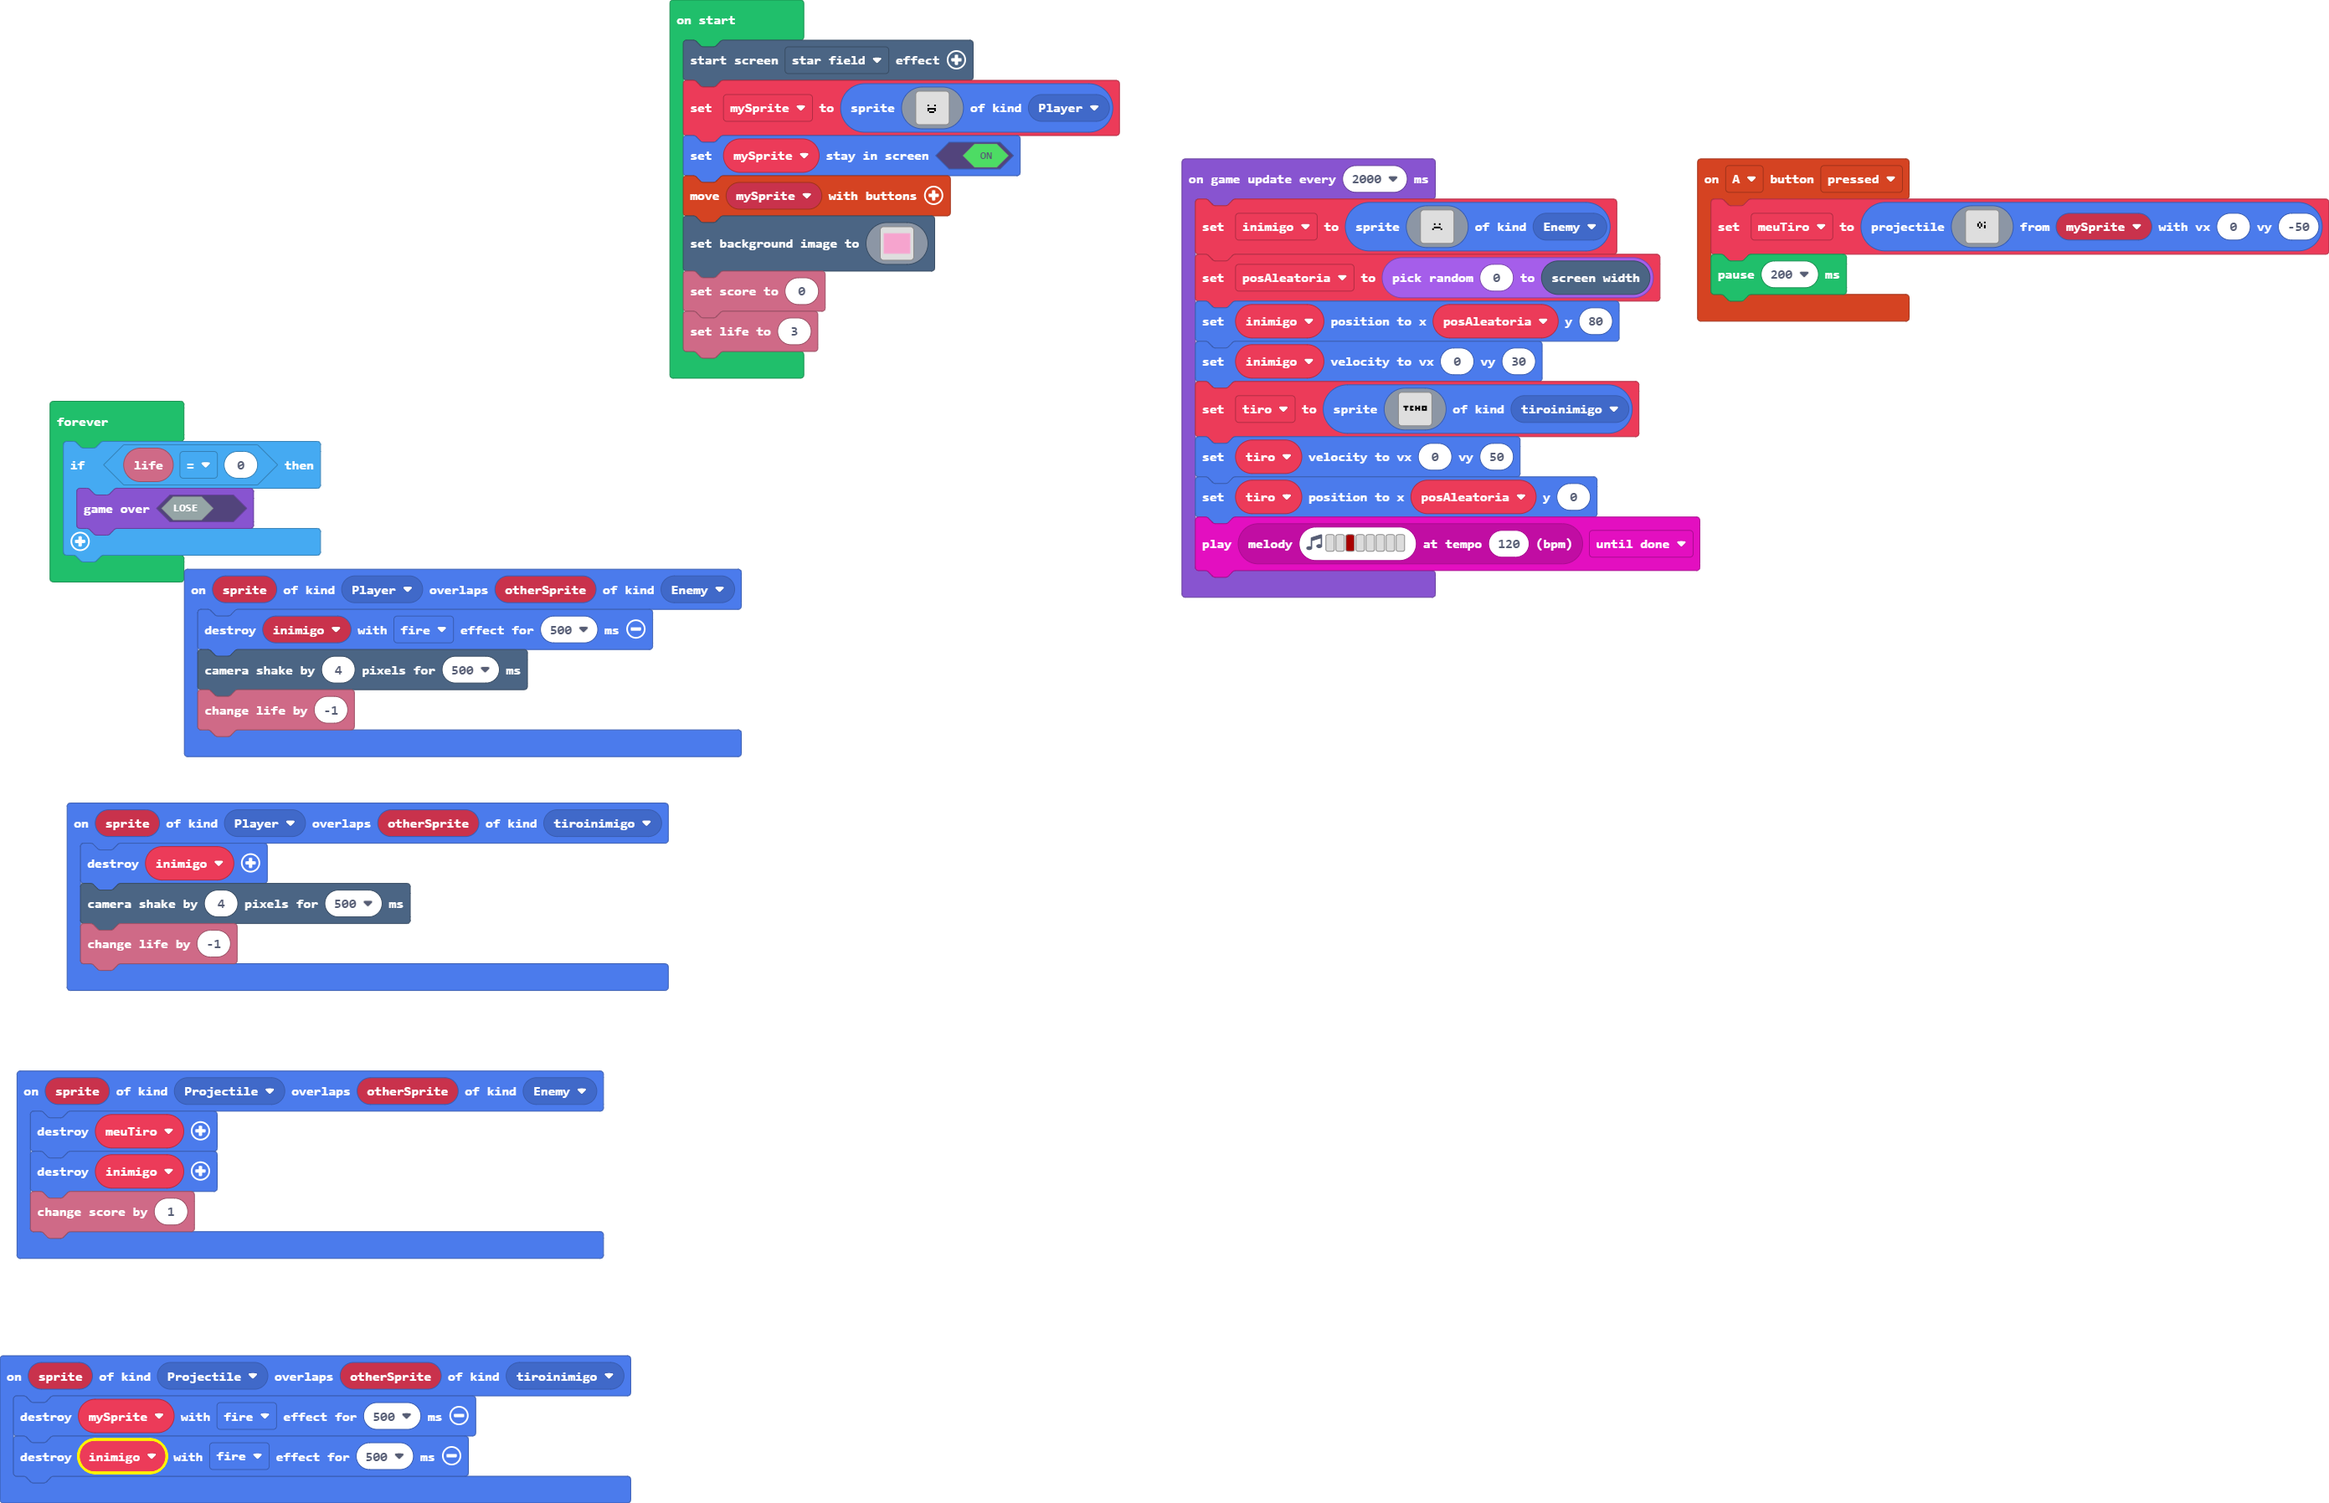
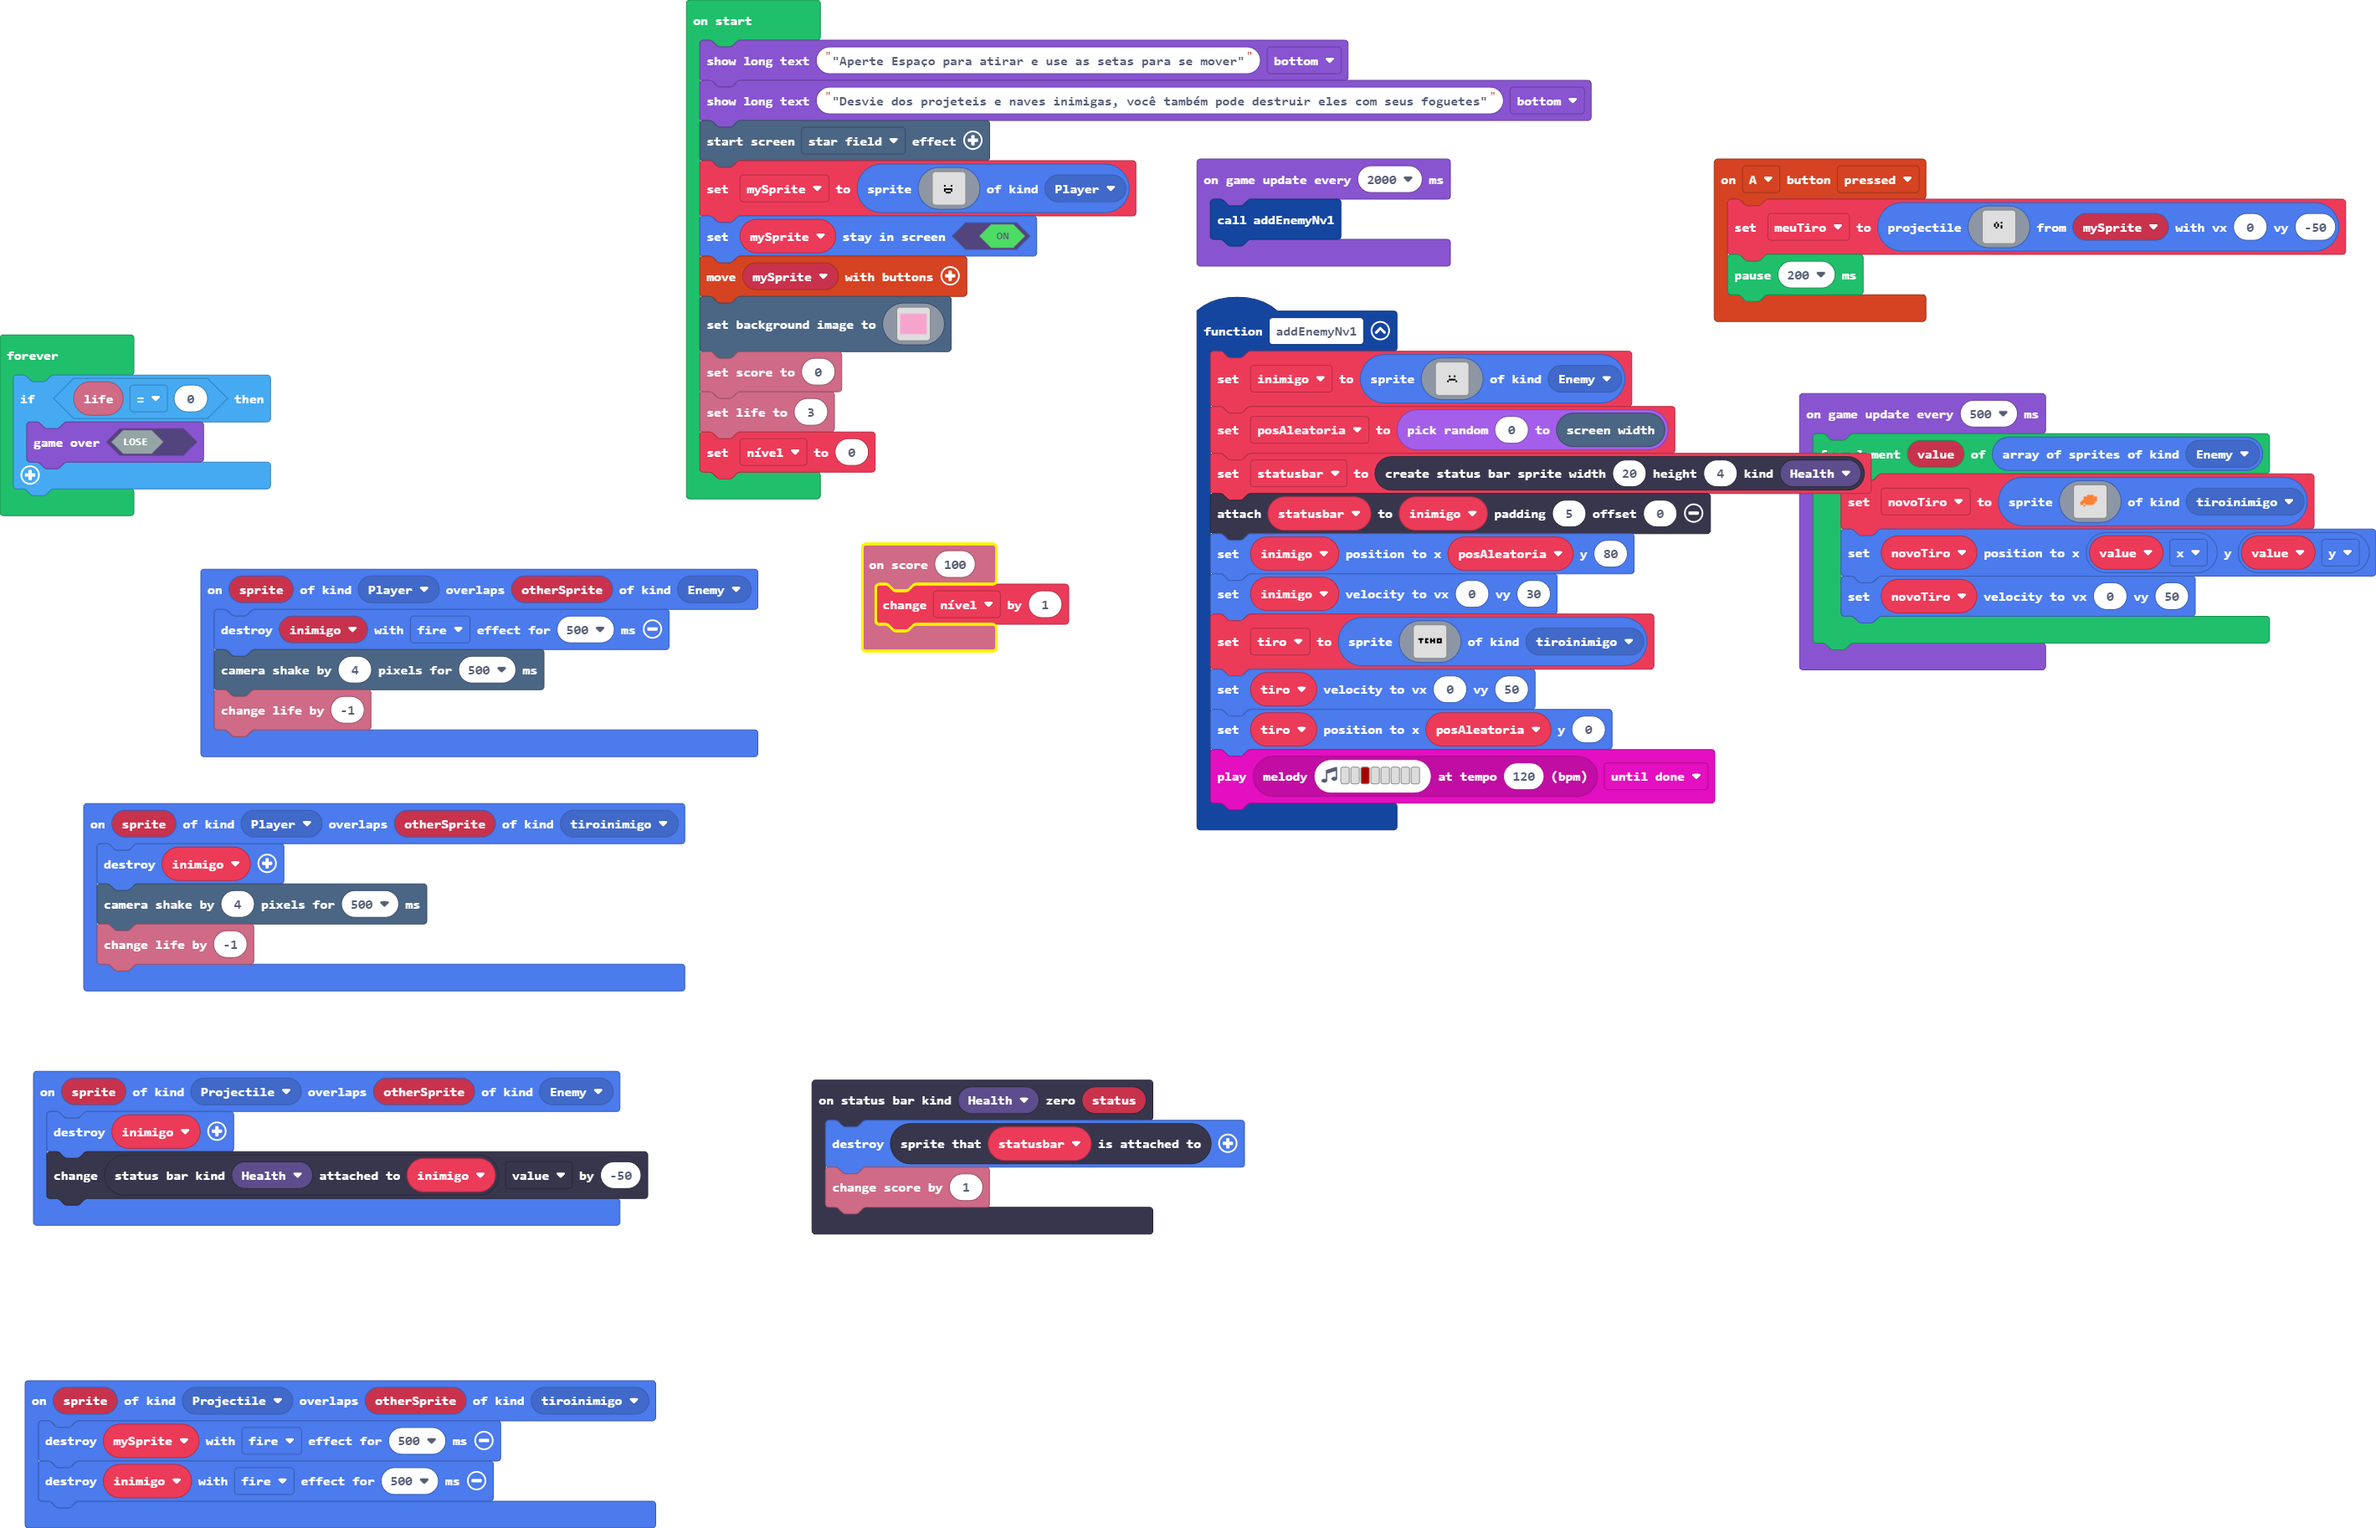
Mudanças +++

diff --git a/main.ts b/main.ts
@@ -22,6 +22,59 @@ controller.A.onEvent(ControllerButtonEvent.Pressed, function () {
         `, mySprite, 0, -50)
     pause(200)
 })
+function addEnemyNv1 () {
+    inimigo = sprites.create(img`
+        . . . . . . . . . . . . . . . . 
+        . . . . . . . . . . . . . . . . 
+        . . . . . . . . . . . . . . . . 
+        . . . . . . . . . . . . . . . . 
+        . . . . . . . . . . . . . . . . 
+        . . . . . . . . . . . . . . . . 
+        . . . . . . f . . f . . . . . . 
+        . . . . . . . . . . . . . . . . 
+        . . . . . . f f f f . . . . . . 
+        . . . . . f . . . . f . . . . . 
+        . . . . . . . . . . . . . . . . 
+        . . . . . . . . . . . . . . . . 
+        . . . . . . . . . . . . . . . . 
+        . . . . . . . . . . . . . . . . 
+        . . . . . . . . . . . . . . . . 
+        . . . . . . . . . . . . . . . . 
+        `, SpriteKind.Enemy)
+    posAleatoria = randint(0, scene.screenWidth())
+    statusbar = statusbars.create(20, 4, StatusBarKind.Health)
+    statusbar.attachToSprite(inimigo, 5, 0)
+    inimigo.setPosition(posAleatoria, 80)
+    inimigo.setVelocity(0, 30)
+    tiro = sprites.create(img`
+        . . . . . . . . . . . . . . . . 
+        . . . . . . . . . . . . . . . . 
+        . . . . . . . . . . . . . . . . 
+        . . . . . . . . . . . . . . . . 
+        . . . . . . . . . . . . . . . . 
+        . . . . . . . . . . . . . . . . 
+        . f f f . f f . f . f . f f f . 
+        . . f . . f . . f f f . f . f . 
+        . . f . . f f . f . f . f f f . 
+        . . . . . . . . . . . . . . . . 
+        . . . . . . . . . . . . . . . . 
+        . . . . . . . . . . . . . . . . 
+        . . . . . . . . . . . . . . . . 
+        . . . . . . . . . . . . . . . . 
+        . . . . . . . . . . . . . . . . 
+        . . . . . . . . . . . . . . . . 
+        `, SpriteKind.tiroinimigo)
+    tiro.setVelocity(0, 50)
+    tiro.setPosition(posAleatoria, 0)
+    music.play(music.stringPlayable("- - C5 - - - - - ", 120), music.PlaybackMode.UntilDone)
+}
+info.onScore(100, function () {
+    nível += 1
+})
+statusbars.onZero(StatusBarKind.Health, function (status) {
+    sprites.destroy(statusbar.spriteAttachedTo())
+    info.changeScoreBy(1)
+})
 sprites.onOverlap(SpriteKind.Projectile, SpriteKind.tiroinimigo, function (sprite, otherSprite) {
     sprites.destroy(mySprite, effects.fire, 500)
     sprites.destroy(inimigo, effects.fire, 500)
@@ -32,20 +85,23 @@ sprites.onOverlap(SpriteKind.Player, SpriteKind.tiroinimigo, function (sprite, o
     info.changeLifeBy(-1)
 })
 sprites.onOverlap(SpriteKind.Projectile, SpriteKind.Enemy, function (sprite, otherSprite) {
-    sprites.destroy(meuTiro)
     sprites.destroy(inimigo)
-    info.changeScoreBy(1)
+    statusbars.getStatusBarAttachedTo(StatusBarKind.Health, inimigo).value += -50
 })
 sprites.onOverlap(SpriteKind.Player, SpriteKind.Enemy, function (sprite, otherSprite) {
     sprites.destroy(inimigo, effects.fire, 500)
     scene.cameraShake(4, 500)
     info.changeLifeBy(-1)
 })
+let novoTiro: Sprite = null
 let tiro: Sprite = null
+let statusbar: StatusBarSprite = null
 let posAleatoria = 0
 let inimigo: Sprite = null
 let meuTiro: Sprite = null
 let mySprite: Sprite = null
+game.showLongText("\"Aperte Espaço para atirar e use as setas para se mover\"", DialogLayout.Bottom)
+game.showLongText("\"Desvie dos projeteis e naves inimigas, você também pode destruir eles com seus foguetes\"", DialogLayout.Bottom)
 effects.starField.startScreenEffect()
 mySprite = sprites.create(img`
     . . . . . . . . . . . . . . . . 
@@ -191,52 +247,36 @@ scene.setBackgroundImage(img`
     `)
 info.setScore(0)
 info.setLife(3)
+let nível = 0
 game.onUpdateInterval(2000, function () {
-    inimigo = sprites.create(img`
-        . . . . . . . . . . . . . . . . 
-        . . . . . . . . . . . . . . . . 
-        . . . . . . . . . . . . . . . . 
-        . . . . . . . . . . . . . . . . 
-        . . . . . . . . . . . . . . . . 
-        . . . . . . . . . . . . . . . . 
-        . . . . . . f . . f . . . . . . 
-        . . . . . . . . . . . . . . . . 
-        . . . . . . f f f f . . . . . . 
-        . . . . . f . . . . f . . . . . 
-        . . . . . . . . . . . . . . . . 
-        . . . . . . . . . . . . . . . . 
-        . . . . . . . . . . . . . . . . 
-        . . . . . . . . . . . . . . . . 
-        . . . . . . . . . . . . . . . . 
-        . . . . . . . . . . . . . . . . 
-        `, SpriteKind.Enemy)
-    posAleatoria = randint(0, scene.screenWidth())
-    inimigo.setPosition(posAleatoria, 80)
-    inimigo.setVelocity(0, 30)
-    tiro = sprites.create(img`
-        . . . . . . . . . . . . . . . . 
-        . . . . . . . . . . . . . . . . 
-        . . . . . . . . . . . . . . . . 
-        . . . . . . . . . . . . . . . . 
-        . . . . . . . . . . . . . . . . 
-        . . . . . . . . . . . . . . . . 
-        . f f f . f f . f . f . f f f . 
-        . . f . . f . . f f f . f . f . 
-        . . f . . f f . f . f . f f f . 
-        . . . . . . . . . . . . . . . . 
-        . . . . . . . . . . . . . . . . 
-        . . . . . . . . . . . . . . . . 
-        . . . . . . . . . . . . . . . . 
-        . . . . . . . . . . . . . . . . 
-        . . . . . . . . . . . . . . . . 
-        . . . . . . . . . . . . . . . . 
-        `, SpriteKind.tiroinimigo)
-    tiro.setVelocity(0, 50)
-    tiro.setPosition(posAleatoria, 0)
-    music.play(music.stringPlayable("- - C5 - - - - - ", 120), music.PlaybackMode.UntilDone)
+    addEnemyNv1()
 })
 forever(function () {
     if (info.life() == 0) {
         game.gameOver(false)
+    }
+})
+game.onUpdateInterval(500, function () {
+    for (let value of sprites.allOfKind(SpriteKind.Enemy)) {
+        novoTiro = sprites.create(img`
+            . . . . . . . . . . . . . . . . 
+            . . . . . . . . . . . . . . . . 
+            . . . . . . . . . . . . . . . . 
+            . . . . . . . . . . . . . . . . 
+            . . . . . . 4 4 4 4 . . . . . . 
+            . . . . 4 4 4 4 4 4 4 4 . . . . 
+            . . . . 4 4 4 4 4 4 4 4 . . . . 
+            . . . 4 4 4 4 4 4 4 4 4 . . . . 
+            . . 4 4 4 4 4 4 4 4 4 . . . . . 
+            . . 4 4 . 4 4 4 4 4 . . . . . . 
+            . . . . 4 . . . . . . . . . . . 
+            . . . . . . . . . . . . . . . . 
+            . . . . . . . . . . . . . . . . 
+            . . . . . . . . . . . . . . . . 
+            . . . . . . . . . . . . . . . . 
+            . . . . . . . . . . . . . . . . 
+            `, SpriteKind.tiroinimigo)
+        novoTiro.setPosition(value.x, value.y)
+        novoTiro.setVelocity(0, 50)
     }
 })
